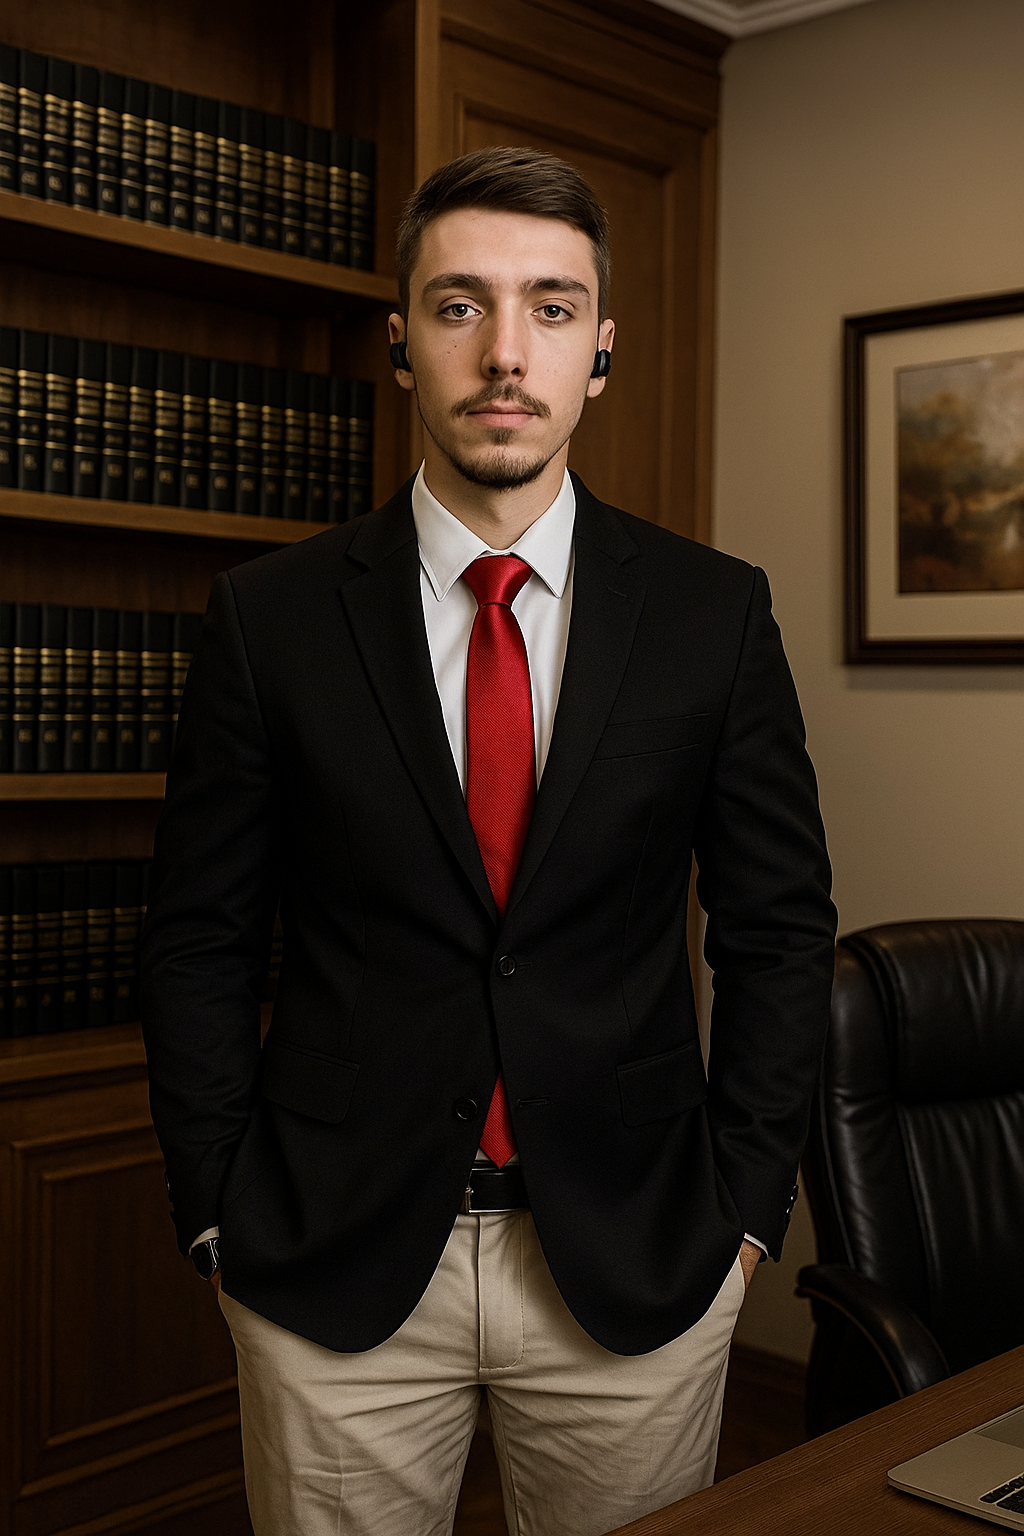
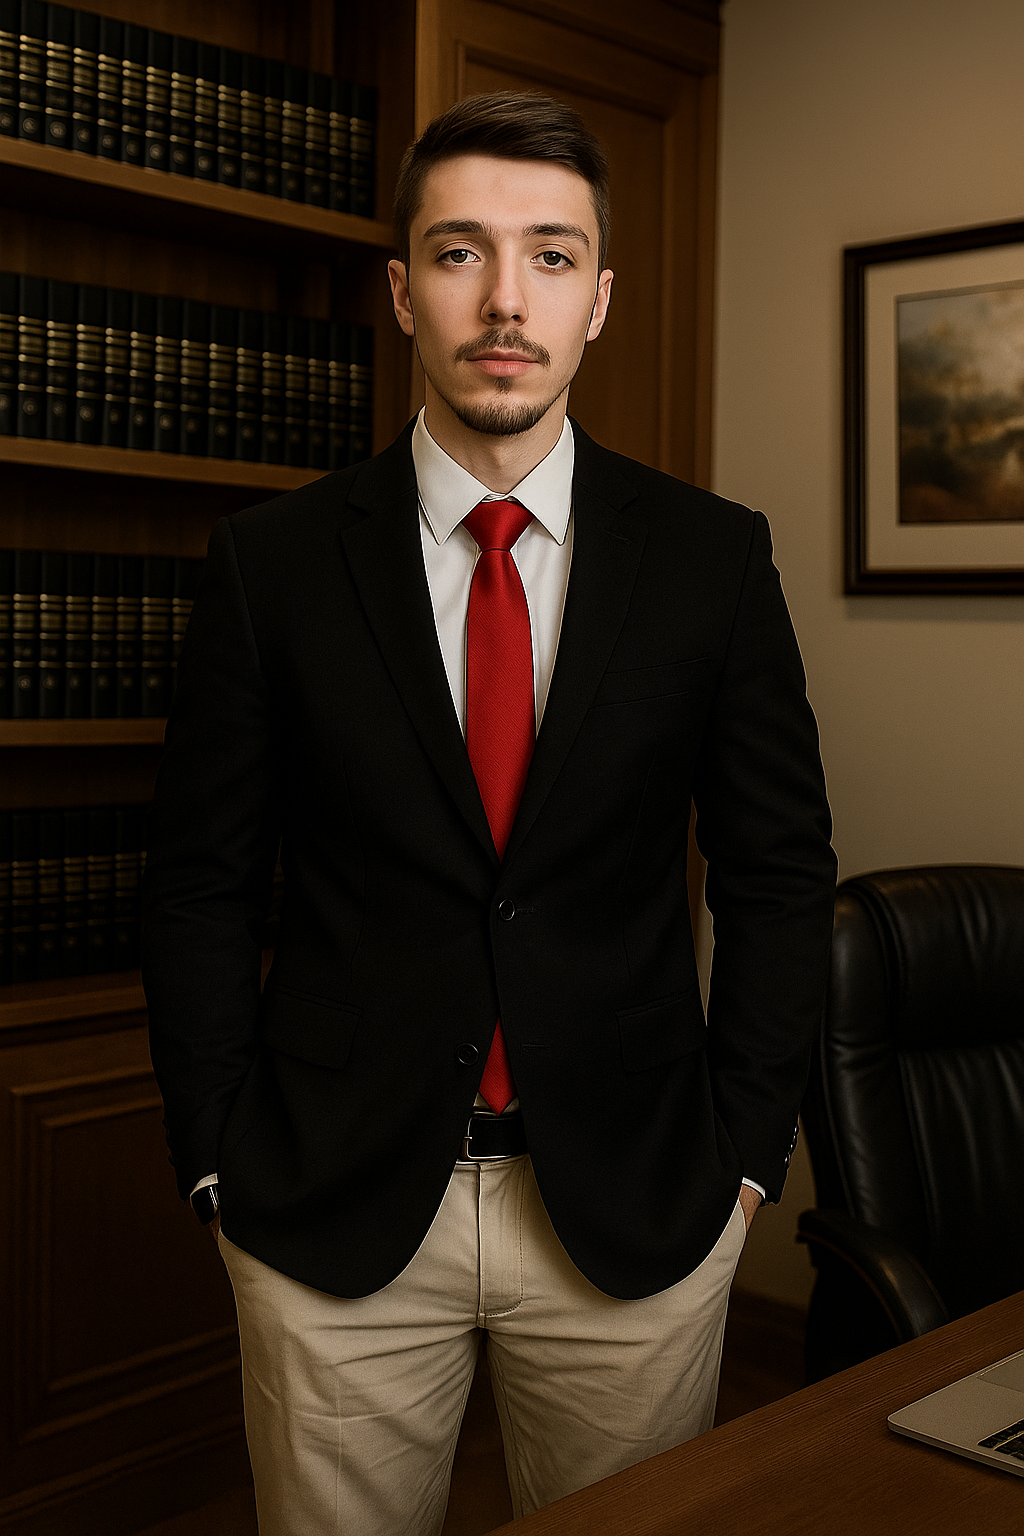
Atualiza fotos da equipe e ajustes no design

diff --git a/index.html b/index.html
@@ -82,7 +82,7 @@
 
                 <div class="sobre-image">
                     <div class="image-placeholder">
-                        <img src="img/escritorio.png" alt="Foto do Escritório"/>
+                        <img src="img/escritorio.png" alt="Foto do Escritório" loading="lazy" sizes="(max-width: 768px) 100vw, 600px"/>
                     </div>
                 </div>
             </div>
@@ -197,7 +197,7 @@
             <div class="equipe-grid">
                 <div class="advogado-card">
                     <div class="advogado-image">
-                        <img src="img/Dr. Douglas Kaminski.png" alt="Foto do Dr. Douglas Kaminski">
+                        <img src="img/Dr. Douglas Kaminski.png" alt="Foto do Dr. Douglas Kaminski" loading="lazy" sizes="(max-width: 768px) 100vw, 360px">
                     </div>
                     <div class="advogado-info">
                         <h3>Dr. Douglas Kaminski</h3>
@@ -207,7 +207,7 @@
                 </div>
                 <div class="advogado-card">
                     <div class="advogado-image">
-                        <img src="img/Dra. Karina Lima.avif" alt="Foto do Dra. Karina Lima">
+                        <img src="img/Dra. Karina Lima.png" alt="Foto do Dra. Karina Lima" loading="lazy" sizes="(max-width: 768px) 100vw, 360px">
                     </div>
                     <div class="advogado-info">
                         <h3>Dra. Karina Lima</h3>
@@ -217,7 +217,7 @@
                 </div>
                 <div class="advogado-card">
                     <div class="advogado-image">
-                        <img src="img/Dr. Leonardo Santos.jpeg" alt="Foto do Dr. Leonardo Santos">
+                        <img src="img/Dr. Leonardo Santos.jpeg" alt="Foto do Dr. Leonardo Santos" loading="lazy" sizes="(max-width: 768px) 100vw, 360px">
                     </div>
                     <div class="advogado-info">
                         <h3>Dr. Leonardo Santos</h3>

diff --git a/css/style.css b/css/style.css
@@ -22,6 +22,13 @@
     box-sizing: border-box;
 }
 
+/* Imagens responsivas sem corte */
+img {
+    max-width: 100%;
+    height: auto;
+    display: block;
+}
+
 html {
     scroll-behavior: smooth;
     font-size: 16px;
@@ -429,6 +436,11 @@ section {
     box-shadow: var(--sombra-forte);
 }
 
+.image-placeholder img {
+    width: 100%;
+    height: auto;
+}
+
 /* ========================================
    ATUAÇÃO
    ======================================== */
@@ -550,7 +562,7 @@ section {
 
 .advogado-image {
     width: 100%;
-    height: 380px;
+    height: auto;
     overflow: hidden;
     position: relative;
     background: var(--azul-escuro);
@@ -561,8 +573,8 @@ section {
 
 .advogado-image img {
     width: 100%;
-    height: 100%;
-    object-fit: cover;
+    height: auto;
+    object-fit: contain;
     object-position: center;
     transition: transform 0.4s ease;
 }
@@ -614,7 +626,7 @@ section {
     }
 
     .advogado-image {
-        height: 320px;
+        height: auto;
     }
 }
 
@@ -1024,5 +1036,20 @@ section {
 
     .contato-form {
         padding: 25px;
+    }
+}
+
+/* Telas grandes - refinamento desktop */
+@media (min-width: 1280px) {
+    .hero-title {
+        font-size: 4em;
+    }
+
+    .section-title {
+        font-size: 3em;
+    }
+
+    .container {
+        max-width: 1200px;
     }
 }

diff --git a/js/script.js b/js/script.js
@@ -301,14 +301,6 @@ if (formContato) {
         lastSubmitTime = now;
     });
 }
-
-// ========================================
-// CONSOLE LOG (remover em produção)
-// ========================================
-console.log('%c🏛 DKL Advogados', 'font-size: 20px; font-weight: bold; color: #c9a961;');
-console.log('%cWebsite desenvolvido por Douglas Kaminski', 'color: #1a2332;');
-console.log('%cPortfólio: https://douglaskaminski.github.io/portfolio', 'color: #c9a961;');
-
 // ========================================
 // INICIALIZAÇÃO
 // ========================================
